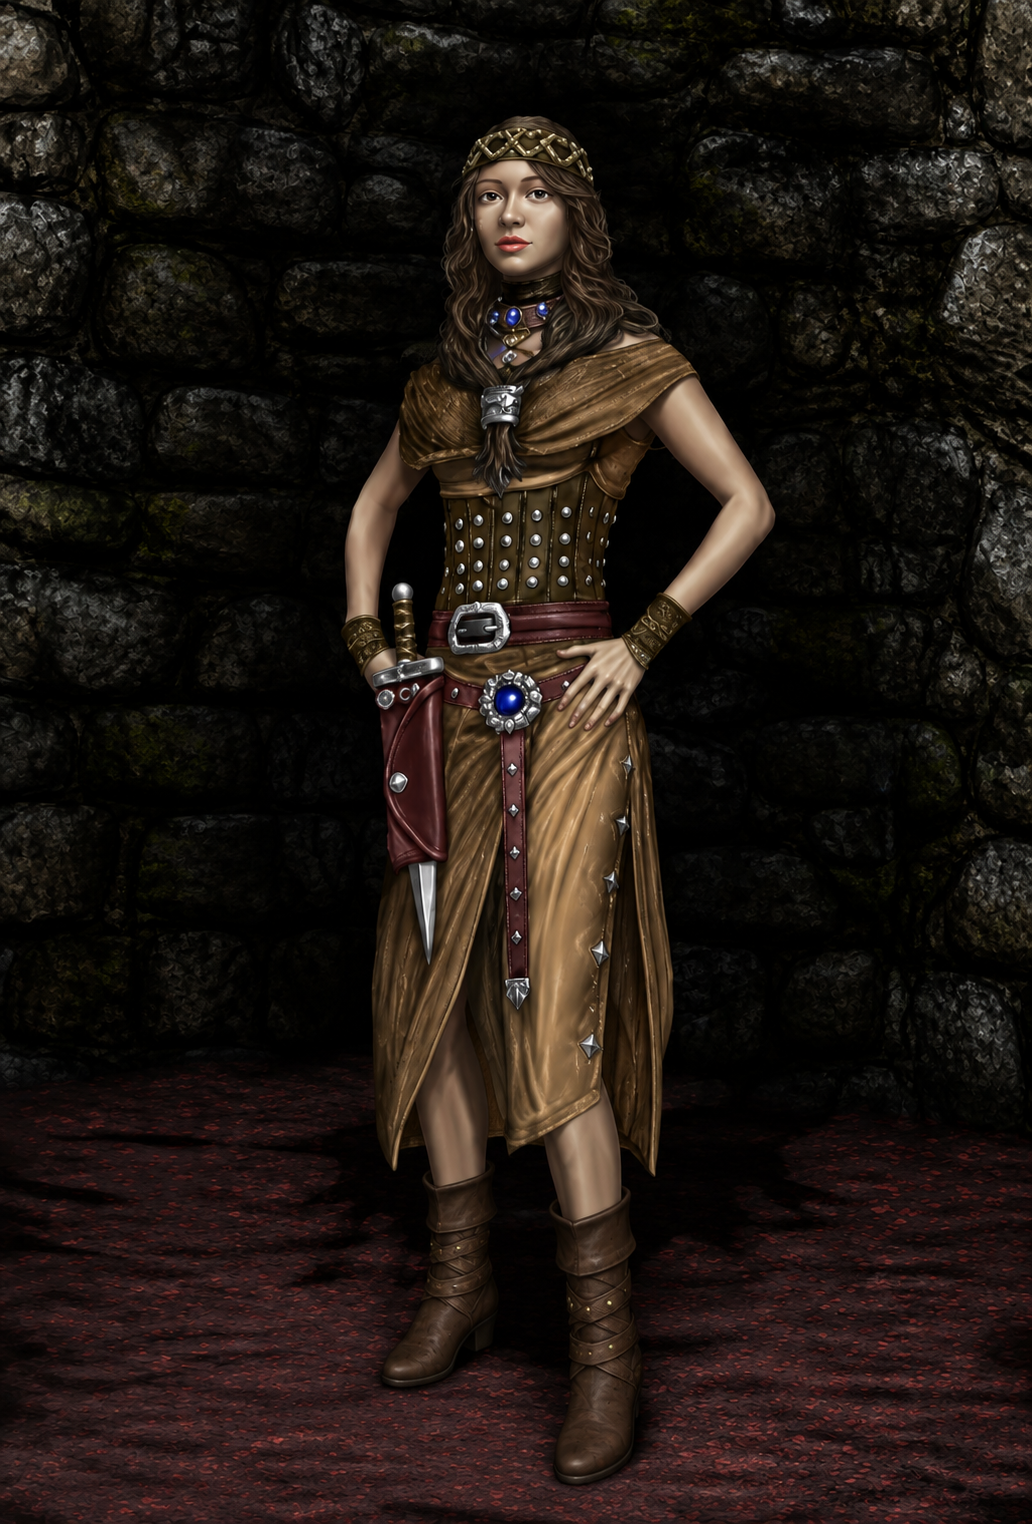
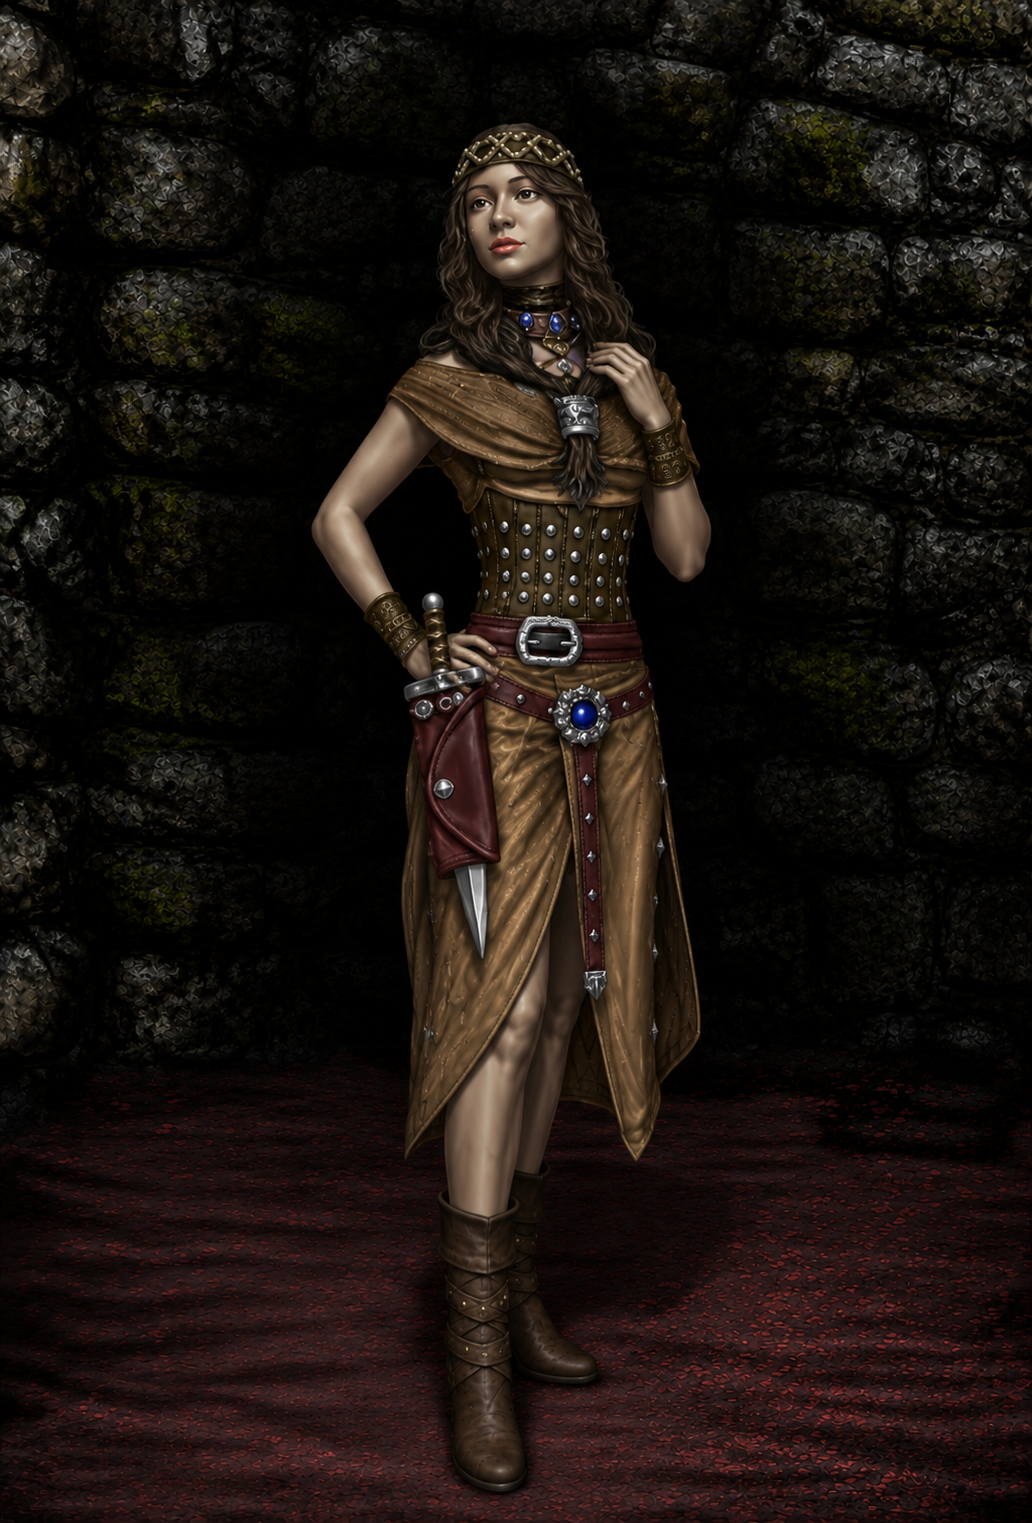
новые апскейлы 18 портретов

diff --git a/mist-overhaul.user.js b/mist-overhaul.user.js
@@ -1,7 +1,7 @@
 // ==UserScript==
 // @name         Mist Overhaul
 // @namespace    https://github.com/netherguy4/mist-overhaul
-// @version      2026.08.12.2037
+// @version      2026.08.18.1306
 // @description  Анимированные портреты персонажей в Mist
 // @author       nether
 // @match        *://*.mist-game.ru/*
@@ -29,26 +29,26 @@
   // --- ссылки на портреты, дальше до конца блока правит build.py ---
   const URLS = {
     bride_amalia_milton_8thmarch: {"2x": "https://cdn.jsdelivr.net/gh/netherguy4/mist-overhaul@main/extension/npc/2x/bride_amalia_milton_8thmarch.4e996156.webm", "3x": "https://cdn.jsdelivr.net/gh/netherguy4/mist-overhaul@main/extension/npc/3x/bride_amalia_milton_8thmarch.5b7812c2.webm"},
-    caravaneer: {"2x": "https://cdn.jsdelivr.net/gh/netherguy4/mist-overhaul@main/extension/npc/2x/caravaneer.ab604c7b.webp", "3x": "https://cdn.jsdelivr.net/gh/netherguy4/mist-overhaul@main/extension/npc/3x/caravaneer.df3be187.webp"},
+    caravaneer: {"2x": "https://cdn.jsdelivr.net/gh/netherguy4/mist-overhaul@main/extension/npc/2x/caravaneer.2d665b85.webp", "3x": "https://cdn.jsdelivr.net/gh/netherguy4/mist-overhaul@main/extension/npc/3x/caravaneer.9380e678.webp"},
     corvin: {"2x": "https://cdn.jsdelivr.net/gh/netherguy4/mist-overhaul@main/extension/npc/2x/corvin.a2092c7b.webp", "3x": "https://cdn.jsdelivr.net/gh/netherguy4/mist-overhaul@main/extension/npc/3x/corvin.bf3fed7f.webp"},
-    cpt_tirim_mormont: {"2x": "https://cdn.jsdelivr.net/gh/netherguy4/mist-overhaul@main/extension/npc/2x/cpt_tirim_mormont.cdfc20ca.webp", "3x": "https://cdn.jsdelivr.net/gh/netherguy4/mist-overhaul@main/extension/npc/3x/cpt_tirim_mormont.5fe81384.webp"},
-    demandred: {"2x": "https://cdn.jsdelivr.net/gh/netherguy4/mist-overhaul@main/extension/npc/2x/demandred.b973b627.webp", "3x": "https://cdn.jsdelivr.net/gh/netherguy4/mist-overhaul@main/extension/npc/3x/demandred.f61e2f92.webp"},
-    ghost_boss_traun: {"2x": "https://cdn.jsdelivr.net/gh/netherguy4/mist-overhaul@main/extension/npc/2x/ghost_boss_traun.55da66de.webp", "3x": "https://cdn.jsdelivr.net/gh/netherguy4/mist-overhaul@main/extension/npc/3x/ghost_boss_traun.8155df8d.webp"},
-    ghost_simon_kornish: {"2x": "https://cdn.jsdelivr.net/gh/netherguy4/mist-overhaul@main/extension/npc/2x/ghost_simon_kornish.48b3db15.webp", "3x": "https://cdn.jsdelivr.net/gh/netherguy4/mist-overhaul@main/extension/npc/3x/ghost_simon_kornish.a97aea42.webp"},
-    guild_violett_tari: {"2x": "https://cdn.jsdelivr.net/gh/netherguy4/mist-overhaul@main/extension/npc/2x/guild_violett_tari.883b8c87.webp", "3x": "https://cdn.jsdelivr.net/gh/netherguy4/mist-overhaul@main/extension/npc/3x/guild_violett_tari.be0f55eb.webp"},
-    ifrit: {"2x": "https://cdn.jsdelivr.net/gh/netherguy4/mist-overhaul@main/extension/npc/2x/ifrit.cda3abf1.webp", "3x": "https://cdn.jsdelivr.net/gh/netherguy4/mist-overhaul@main/extension/npc/3x/ifrit.1f11e127.webp"},
-    indiana_lester: {"2x": "https://cdn.jsdelivr.net/gh/netherguy4/mist-overhaul@main/extension/npc/2x/indiana_lester.d47c3775.webp", "3x": "https://cdn.jsdelivr.net/gh/netherguy4/mist-overhaul@main/extension/npc/3x/indiana_lester.55dad1d2.webp"},
-    innkeeper: {"2x": "https://cdn.jsdelivr.net/gh/netherguy4/mist-overhaul@main/extension/npc/2x/innkeeper.fe19e8b4.webp", "3x": "https://cdn.jsdelivr.net/gh/netherguy4/mist-overhaul@main/extension/npc/3x/innkeeper.cff3773d.webp"},
-    lumberjack: {"2x": "https://cdn.jsdelivr.net/gh/netherguy4/mist-overhaul@main/extension/npc/2x/lumberjack.a9517d8e.webp", "3x": "https://cdn.jsdelivr.net/gh/netherguy4/mist-overhaul@main/extension/npc/3x/lumberjack.a9c9d041.webp"},
-    oracle: {"2x": "https://cdn.jsdelivr.net/gh/netherguy4/mist-overhaul@main/extension/npc/2x/oracle.980adb81.webp", "3x": "https://cdn.jsdelivr.net/gh/netherguy4/mist-overhaul@main/extension/npc/3x/oracle.b48931d6.webp"},
-    overseas_koitira: {"2x": "https://cdn.jsdelivr.net/gh/netherguy4/mist-overhaul@main/extension/npc/2x/overseas_koitira.ec2632f6.webp", "3x": "https://cdn.jsdelivr.net/gh/netherguy4/mist-overhaul@main/extension/npc/3x/overseas_koitira.4176e79e.webp"},
-    poacher_vargo: {"2x": "https://cdn.jsdelivr.net/gh/netherguy4/mist-overhaul@main/extension/npc/2x/poacher_vargo.7d01dd1f.webp", "3x": "https://cdn.jsdelivr.net/gh/netherguy4/mist-overhaul@main/extension/npc/3x/poacher_vargo.b553b3b2.webp"},
-    postman: {"2x": "https://cdn.jsdelivr.net/gh/netherguy4/mist-overhaul@main/extension/npc/2x/postman.540a5072.webp", "3x": "https://cdn.jsdelivr.net/gh/netherguy4/mist-overhaul@main/extension/npc/3x/postman.c4b73980.webp"},
+    cpt_tirim_mormont: {"2x": "https://cdn.jsdelivr.net/gh/netherguy4/mist-overhaul@main/extension/npc/2x/cpt_tirim_mormont.d9d3867f.webp", "3x": "https://cdn.jsdelivr.net/gh/netherguy4/mist-overhaul@main/extension/npc/3x/cpt_tirim_mormont.146d5a06.webp"},
+    demandred: {"2x": "https://cdn.jsdelivr.net/gh/netherguy4/mist-overhaul@main/extension/npc/2x/demandred.140c59af.webp", "3x": "https://cdn.jsdelivr.net/gh/netherguy4/mist-overhaul@main/extension/npc/3x/demandred.a36902b6.webp"},
+    ghost_boss_traun: {"2x": "https://cdn.jsdelivr.net/gh/netherguy4/mist-overhaul@main/extension/npc/2x/ghost_boss_traun.41ce6c86.webp", "3x": "https://cdn.jsdelivr.net/gh/netherguy4/mist-overhaul@main/extension/npc/3x/ghost_boss_traun.c0865292.webp"},
+    ghost_simon_kornish: {"2x": "https://cdn.jsdelivr.net/gh/netherguy4/mist-overhaul@main/extension/npc/2x/ghost_simon_kornish.5267eb85.webp", "3x": "https://cdn.jsdelivr.net/gh/netherguy4/mist-overhaul@main/extension/npc/3x/ghost_simon_kornish.98bd4091.webp"},
+    guild_violett_tari: {"2x": "https://cdn.jsdelivr.net/gh/netherguy4/mist-overhaul@main/extension/npc/2x/guild_violett_tari.4c0a65ad.webp", "3x": "https://cdn.jsdelivr.net/gh/netherguy4/mist-overhaul@main/extension/npc/3x/guild_violett_tari.c2049eec.webp"},
+    ifrit: {"2x": "https://cdn.jsdelivr.net/gh/netherguy4/mist-overhaul@main/extension/npc/2x/ifrit.16378a84.webp", "3x": "https://cdn.jsdelivr.net/gh/netherguy4/mist-overhaul@main/extension/npc/3x/ifrit.f5db6560.webp"},
+    indiana_lester: {"2x": "https://cdn.jsdelivr.net/gh/netherguy4/mist-overhaul@main/extension/npc/2x/indiana_lester.486478de.webp", "3x": "https://cdn.jsdelivr.net/gh/netherguy4/mist-overhaul@main/extension/npc/3x/indiana_lester.a1ecf3ca.webp"},
+    innkeeper: {"2x": "https://cdn.jsdelivr.net/gh/netherguy4/mist-overhaul@main/extension/npc/2x/innkeeper.d1d7bfa3.webp", "3x": "https://cdn.jsdelivr.net/gh/netherguy4/mist-overhaul@main/extension/npc/3x/innkeeper.4633aff4.webp"},
+    lumberjack: {"2x": "https://cdn.jsdelivr.net/gh/netherguy4/mist-overhaul@main/extension/npc/2x/lumberjack.c492abd8.webp", "3x": "https://cdn.jsdelivr.net/gh/netherguy4/mist-overhaul@main/extension/npc/3x/lumberjack.aa9bd73e.webp"},
+    oracle: {"2x": "https://cdn.jsdelivr.net/gh/netherguy4/mist-overhaul@main/extension/npc/2x/oracle.a09dd068.webp", "3x": "https://cdn.jsdelivr.net/gh/netherguy4/mist-overhaul@main/extension/npc/3x/oracle.8ebb869c.webp"},
+    overseas_koitira: {"2x": "https://cdn.jsdelivr.net/gh/netherguy4/mist-overhaul@main/extension/npc/2x/overseas_koitira.1a1f2bc9.webp", "3x": "https://cdn.jsdelivr.net/gh/netherguy4/mist-overhaul@main/extension/npc/3x/overseas_koitira.36481417.webp"},
+    poacher_vargo: {"2x": "https://cdn.jsdelivr.net/gh/netherguy4/mist-overhaul@main/extension/npc/2x/poacher_vargo.2531e493.webp", "3x": "https://cdn.jsdelivr.net/gh/netherguy4/mist-overhaul@main/extension/npc/3x/poacher_vargo.5c7fb77e.webp"},
+    postman: {"2x": "https://cdn.jsdelivr.net/gh/netherguy4/mist-overhaul@main/extension/npc/2x/postman.74a8bc0b.webp", "3x": "https://cdn.jsdelivr.net/gh/netherguy4/mist-overhaul@main/extension/npc/3x/postman.a660e171.webp"},
     prisoner_toivo_beilish: {"2x": "https://cdn.jsdelivr.net/gh/netherguy4/mist-overhaul@main/extension/npc/2x/prisoner_toivo_beilish.a3bb7d4a.webp", "3x": "https://cdn.jsdelivr.net/gh/netherguy4/mist-overhaul@main/extension/npc/3x/prisoner_toivo_beilish.b7e22af7.webp"},
-    rogue_boss_eshtar: {"2x": "https://cdn.jsdelivr.net/gh/netherguy4/mist-overhaul@main/extension/npc/2x/rogue_boss_eshtar.5ad82356.webp", "3x": "https://cdn.jsdelivr.net/gh/netherguy4/mist-overhaul@main/extension/npc/3x/rogue_boss_eshtar.5fd83653.webp"},
-    rogue_brun: {"2x": "https://cdn.jsdelivr.net/gh/netherguy4/mist-overhaul@main/extension/npc/2x/rogue_brun.c59a36f7.webp", "3x": "https://cdn.jsdelivr.net/gh/netherguy4/mist-overhaul@main/extension/npc/3x/rogue_brun.99500840.webp"},
-    rogue_girl_deina: {"2x": "https://cdn.jsdelivr.net/gh/netherguy4/mist-overhaul@main/extension/npc/2x/rogue_girl_deina.ebcb7a95.webp", "3x": "https://cdn.jsdelivr.net/gh/netherguy4/mist-overhaul@main/extension/npc/3x/rogue_girl_deina.898102bd.webp"},
-    scientist_arvin_pottery_jr: {"2x": "https://cdn.jsdelivr.net/gh/netherguy4/mist-overhaul@main/extension/npc/2x/scientist_arvin_pottery_jr.3edb4eb4.webp", "3x": "https://cdn.jsdelivr.net/gh/netherguy4/mist-overhaul@main/extension/npc/3x/scientist_arvin_pottery_jr.9baa2dab.webp"},
+    rogue_boss_eshtar: {"2x": "https://cdn.jsdelivr.net/gh/netherguy4/mist-overhaul@main/extension/npc/2x/rogue_boss_eshtar.360c11ff.webp", "3x": "https://cdn.jsdelivr.net/gh/netherguy4/mist-overhaul@main/extension/npc/3x/rogue_boss_eshtar.e991ff5b.webp"},
+    rogue_brun: {"2x": "https://cdn.jsdelivr.net/gh/netherguy4/mist-overhaul@main/extension/npc/2x/rogue_brun.196f85aa.webp", "3x": "https://cdn.jsdelivr.net/gh/netherguy4/mist-overhaul@main/extension/npc/3x/rogue_brun.82c1714e.webp"},
+    rogue_girl_deina: {"2x": "https://cdn.jsdelivr.net/gh/netherguy4/mist-overhaul@main/extension/npc/2x/rogue_girl_deina.28076e4a.webp", "3x": "https://cdn.jsdelivr.net/gh/netherguy4/mist-overhaul@main/extension/npc/3x/rogue_girl_deina.28382d46.webp"},
+    scientist_arvin_pottery_jr: {"2x": "https://cdn.jsdelivr.net/gh/netherguy4/mist-overhaul@main/extension/npc/2x/scientist_arvin_pottery_jr.e060d7e2.webp", "3x": "https://cdn.jsdelivr.net/gh/netherguy4/mist-overhaul@main/extension/npc/3x/scientist_arvin_pottery_jr.ba215311.webp"},
     white_mage: {"2x": "https://cdn.jsdelivr.net/gh/netherguy4/mist-overhaul@main/extension/npc/2x/white_mage.047cffed.webp", "3x": "https://cdn.jsdelivr.net/gh/netherguy4/mist-overhaul@main/extension/npc/3x/white_mage.ee2d73db.webp"},
   };
   // --- конец блока ---
